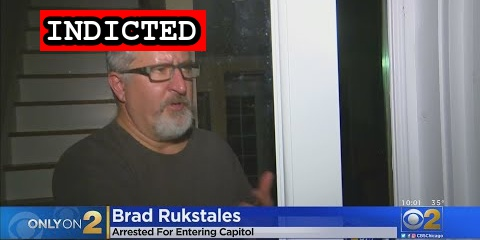
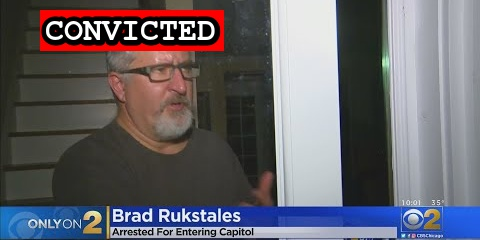
Rukstales guilty plea

Changed region(s): [[0.0625, 0.0292, 0.4688, 0.2333]]

diff --git a/docs/_suspects/bradley-rukstales.md b/docs/_suspects/bradley-rukstales.md
@@ -3,13 +3,13 @@ name: Bradley Rukstales
 lastName: Rukstales
 aka: Brad Rukstales
 residence: Illinois
-status: Indicted
+status: Convicted
 date: 2021-01-07
 charged: 2021-01-07
 indicted: 2021-01-15
-convicted: 
-sentenced: 
-dismissed: 
+convicted: 2021-08-31
+sentenced:
+dismissed:
 deceased:
 age: 52
 occupation: CEO
@@ -29,6 +29,11 @@ author: seditiontrack
 layout: suspect
 published: true
 caseNumber: 1:21-cr-41
+charges:
+  - code: '18 USC § 5104(e)(2)(G)'
+    title: 'Parading, Demonstrating or Picketing in a Capitol Building'
+    url: 'https://www.law.cornell.edu/uscode/text/40/5104'
+    felony: false
 ---
 - [News Report: Federal Charges](https://chicago.suntimes.com/news/2021/1/7/22219260/federal-charges-mob-riot-capitol-leffingwell-alberts-bradley-rukstales-david-fitzgerald)
 - [News Report: DC Arrest (VIDEO)](https://chicago.cbslocal.com/2021/01/08/brad-rukstales-of-inverness-arrested-at-u-s-capitol-riot-apologizes-and-expresses-embarrassment/)

diff --git a/docs/_suspects/gracyn-courtright.md b/docs/_suspects/gracyn-courtright.md
@@ -40,3 +40,4 @@ charges:
 - [Self Incrimination](https://twitter.com/GarrettWKYT/status/1350966875136667654?s=20)
 - [Statement of Facts](https://www.justice.gov/opa/page/file/1360196/download)
 - [Indictment](https://www.justice.gov/usao-dc/case-multi-defendant/file/1366056/download)
+- [News Report (Guilty Plea)](https://www.huffpost.com/entry/gracyn-courtright-capitol-riot-trump-january-6_n_612d0448e4b0f562f3e0f947)
